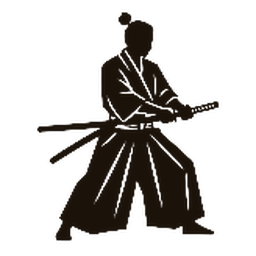
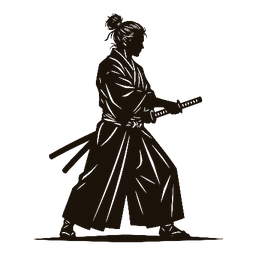
舞台の侍を、1枚で作り直した Gemini の絵に差し替える
Claude-Session: https://claude.ai/code/session_014sLfAAx4otK2TQammgEZ6R

Changed region(s): [[0.125, 0.0312, 0.875, 0.9688], [0.25, 0.75, 0.2812, 0.8125]]

diff --git a/art/PROMPTS.md b/art/PROMPTS.md
@@ -135,4 +135,4 @@ color, colorful, gray, gradient, shading, ground shadow, text, letters, watermar
 
 広告収入を目指すので、**使った画像生成サービスの規約で、商用利用が認められているか**を確かめてから使う。有料プランでないと商用不可のサービスもある。どのサービスで作ったかは、ここに書いておく。
 
-- 使ったサービス：Google Gemini（偵察の梟、返し罠、舞台の侍）。返し罠と侍は3枚を1枚にまとめた小さい画像（512×512）から切り出したので、粗い。1枚ずつ大きく作り直したら差し替える。侍は元の絵が左向きだったので左右反転した。商用利用の可否は Gemini の利用規約で確かめること（未確認）
+- 使ったサービス：Google Gemini（偵察の梟、返し罠、舞台の侍）。返し罠は3枚を1枚にまとめた小さい画像（512×512）から切り出したので粗い。作り直したら差し替える。舞台の侍は1枚で作り直したものに差し替え済み。素の防御の唐傘も入れ済み。商用利用の可否は Gemini の利用規約で確かめること（未確認）
